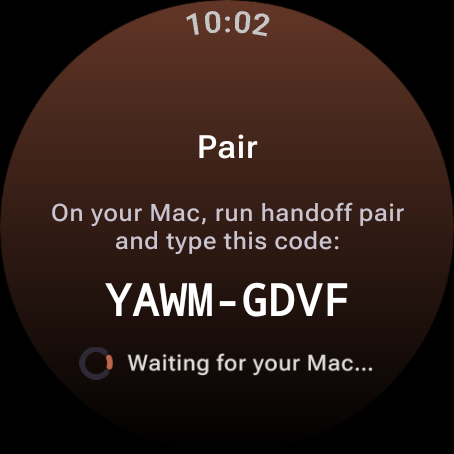
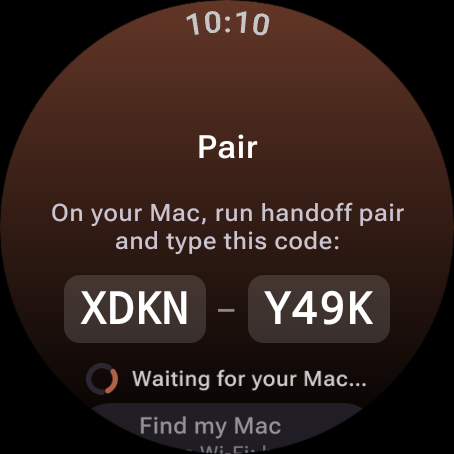
Wear OS: the same cleaner look as the Apple Watch
- Ideas: a chats line at the top (open, working; tap for Projects), a
  microphone on Jot an idea, draft lines with an accent bar, Claude's
  suggestion as a card with a sparkle, and how long ago each note went.
- Pair: the code in two big boxes. Projects: a status dot per chat.
- Play Store screenshots retaken. The script now turns suggestions back
  on for the suggestion shot (the previous run left them off).

Changed region(s): [[0.1233, 0.5859, 0.8634, 1.0], [0.4934, 0.0308, 0.5859, 0.0925]]

diff --git a/wear/app/src/main/java/dev/maxbuda/handoff/MainActivity.kt b/wear/app/src/main/java/dev/maxbuda/handoff/MainActivity.kt
@@ -11,7 +11,16 @@ import androidx.activity.compose.setContent
 import androidx.activity.result.contract.ActivityResultContracts
 import androidx.compose.foundation.background
 import androidx.compose.foundation.clickable
+import androidx.compose.foundation.shape.CircleShape
 import androidx.compose.foundation.shape.RoundedCornerShape
+import androidx.compose.foundation.layout.Arrangement
+import androidx.compose.foundation.layout.IntrinsicSize
+import androidx.compose.foundation.layout.fillMaxHeight
+import androidx.compose.foundation.layout.height
+import androidx.compose.material.icons.filled.AutoAwesome
+import androidx.compose.material.icons.filled.CheckCircle
+import androidx.compose.material.icons.filled.Forum
+import androidx.compose.material.icons.filled.Mic
 import androidx.compose.ui.draw.clip
 import androidx.compose.foundation.layout.Box
 import androidx.compose.foundation.layout.PaddingValues
@@ -275,9 +284,12 @@ fun PairScreen() {
     ListScreen(stringResource(R.string.pair)) {
         item { Caption(stringResource(R.string.pair_instructions)) }
         item {
-            Text("${code.take(4)}-${code.takeLast(4)}", fontFamily = FontFamily.Monospace, fontWeight = FontWeight.Bold,
-                fontSize = 22.sp, maxLines = 1, textAlign = TextAlign.Center, modifier = Modifier.fillMaxWidth().padding(vertical = 6.dp),
-                color = if (failure == null) Color.White else Color.Gray)
+            Row(Modifier.fillMaxWidth().padding(vertical = 6.dp), horizontalArrangement = Arrangement.Center, verticalAlignment = Alignment.CenterVertically) {
+                val dim = if (failure == null) 1f else 0.4f
+                CodeHalf(code.take(4), dim)
+                Text("–", color = Color.Gray, modifier = Modifier.padding(horizontal = 6.dp))
+                CodeHalf(code.takeLast(4), dim)
+            }
         }
         val f = failure
         if (f != null) {
@@ -410,6 +422,11 @@ fun IdeasScreen(nav: NavHostController, jot: Boolean, jotHandled: () -> Unit) {
             }
         } else null,
     ) {
+        // Your chats at a glance (open, and how many are working); tap for Projects.
+        if (Store.chats.isNotEmpty()) item {
+            ChatsLine(Store.chats.size, Store.status.values.count { it.working != null }) { nav.navigate("projects") }
+        }
+
         Store.approvals.forEach { approvalItems(it, nav) }
 
         Store.shots.firstOrNull()?.let { shot ->
@@ -432,7 +449,14 @@ fun IdeasScreen(nav: NavHostController, jot: Boolean, jotHandled: () -> Unit) {
 
         Store.suggestion?.let { s ->
             item { ListHeader { Text(s.chat?.let { stringResource(R.string.suggestion_from, it) } ?: stringResource(R.string.suggestion)) } }
-            item { Caption(s.text, Color.White) }
+            item {
+                Row(Modifier.fillMaxWidth().clip(RoundedCornerShape(16.dp)).background(MaterialTheme.colorScheme.surfaceContainer).padding(10.dp),
+                    verticalAlignment = Alignment.Top) {
+                    Icon(Icons.Default.AutoAwesome, null, tint = accent, modifier = Modifier.size(14.dp).padding(top = 2.dp))
+                    Spacer(Modifier.width(6.dp))
+                    Text(s.text, style = MaterialTheme.typography.bodyMedium)
+                }
+            }
             item { Item(stringResource(R.string.accept_suggestion), Icons.Default.KeyboardReturn, tonal = false, onClick = Store::acceptSuggestion) }
             item { Item(stringResource(R.string.dismiss), Icons.Default.Close, onClick = Store::dismissSuggestion) }
         }
@@ -457,12 +481,17 @@ fun IdeasScreen(nav: NavHostController, jot: Boolean, jotHandled: () -> Unit) {
         }
 
         itemsIndexed(Store.draft) { i, line ->
-            Button(onClick = { Store.removeLine(i) }, modifier = Modifier.fillMaxWidth(), colors = ButtonDefaults.filledTonalButtonColors(),
-                label = { Text(line, style = MaterialTheme.typography.bodySmall) },
-                icon = { Icon(Icons.Default.Close, contentDescription = null, modifier = Modifier.size(16.dp)) })
+            Row(Modifier.fillMaxWidth().height(IntrinsicSize.Min).clip(RoundedCornerShape(12.dp))
+                .background(MaterialTheme.colorScheme.surfaceContainer).clickable { Store.removeLine(i) }.padding(horizontal = 10.dp, vertical = 8.dp),
+                verticalAlignment = Alignment.CenterVertically) {
+                Box(Modifier.width(3.dp).fillMaxHeight().clip(RoundedCornerShape(2.dp)).background(accent))
+                Spacer(Modifier.width(8.dp))
+                Text(line, style = MaterialTheme.typography.bodySmall, modifier = Modifier.weight(1f))
+                Icon(Icons.Default.Close, contentDescription = null, tint = Color.Gray, modifier = Modifier.size(14.dp))
+            }
         }
         item {
-            if (Store.draft.isEmpty()) Item(stringResource(R.string.jot_an_idea), Icons.Default.Edit, tonal = false, onClick = input)
+            if (Store.draft.isEmpty()) Item(stringResource(R.string.jot_an_idea), Icons.Default.Mic, tonal = false, onClick = input)
             else Item(stringResource(R.string.add_a_line), Icons.Default.Add, onClick = addLine)
         }
 
@@ -477,23 +506,53 @@ fun IdeasScreen(nav: NavHostController, jot: Boolean, jotHandled: () -> Unit) {
                 Row(Modifier.fillMaxWidth().padding(horizontal = 12.dp, vertical = 2.dp),
                     verticalAlignment = Alignment.Top) {
                     Column(Modifier.weight(1f)) {
-                        Text(note.text, style = MaterialTheme.typography.bodySmall, maxLines = 2, overflow = TextOverflow.Ellipsis,
-                            color = MaterialTheme.colorScheme.onSurfaceVariant)
-                        note.to?.let { Text(stringResource(R.string.to_chat, it), style = MaterialTheme.typography.bodySmall, color = accent) }
+                        Text(note.text, style = MaterialTheme.typography.bodySmall, maxLines = 2, overflow = TextOverflow.Ellipsis)
+                        Row {
+                            note.to?.let { Text(stringResource(R.string.to_chat, it) + "  ", style = MaterialTheme.typography.bodySmall, color = accent, maxLines = 1) }
+                            Text(android.text.format.DateUtils.getRelativeTimeSpanString(note.ts, System.currentTimeMillis(),
+                                android.text.format.DateUtils.MINUTE_IN_MILLIS, android.text.format.DateUtils.FORMAT_ABBREV_RELATIVE).toString(),
+                                style = MaterialTheme.typography.bodySmall, color = Color.Gray, maxLines = 1)
+                        }
                     }
-                    Icon(if (note.sent) Icons.Default.Check else Icons.Default.Schedule,
+                    Icon(if (note.sent) Icons.Default.CheckCircle else Icons.Default.Schedule,
                         contentDescription = stringResource(if (note.sent) R.string.delivered else R.string.waiting_to_send),
                         tint = if (note.sent) accent else Color.Gray, modifier = Modifier.size(14.dp))
                 }
             }
         }
 
-        if (Store.chats.isNotEmpty()) item { Item(stringResource(R.string.projects), Icons.Default.Folder) { nav.navigate("projects") } }
         item {
             val n = Store.schedules.size
             Item(if (n == 0) stringResource(R.string.recurring) else stringResource(R.string.recurring_count, n), Icons.Default.Repeat) { nav.navigate("recurring") }
         }
         item { Item(stringResource(R.string.settings), Icons.Default.Settings) { nav.navigate("settings") } }
+    }
+}
+
+/** One half of the pairing code, in a box. */
+@Composable
+private fun CodeHalf(text: String, alpha: Float) {
+    Text(text, fontFamily = FontFamily.Monospace, fontWeight = FontWeight.Bold, fontSize = 22.sp, maxLines = 1,
+        color = Color.White.copy(alpha = alpha),
+        modifier = Modifier.clip(RoundedCornerShape(8.dp)).background(Color.White.copy(alpha = 0.14f * alpha)).padding(horizontal = 8.dp, vertical = 4.dp))
+}
+
+/** The top of Ideas: how many chats are open, and how many are working. Icons and numbers, no words. */
+@Composable
+private fun ChatsLine(open: Int, working: Int, onClick: () -> Unit) {
+    val accent = MaterialTheme.colorScheme.primary
+    val desc = stringResource(R.string.projects)
+    Row(Modifier.fillMaxWidth().clip(RoundedCornerShape(50)).clickable(onClickLabel = desc, onClick = onClick).padding(horizontal = 12.dp, vertical = 4.dp),
+        horizontalArrangement = Arrangement.Center, verticalAlignment = Alignment.CenterVertically) {
+        Box(Modifier.size(7.dp).clip(CircleShape).background(if (working > 0) accent else Color(0xFF34C759)))
+        Spacer(Modifier.width(8.dp))
+        Icon(Icons.Default.Forum, null, tint = Color.Gray, modifier = Modifier.size(14.dp))
+        Text(" $open", style = MaterialTheme.typography.bodySmall, color = Color.Gray)
+        if (working > 0) {
+            Spacer(Modifier.width(8.dp))
+            Icon(Icons.Default.Build, null, tint = accent, modifier = Modifier.size(12.dp))
+            Text(" $working", style = MaterialTheme.typography.bodySmall, color = accent)
+        }
     }
 }
 
@@ -676,7 +735,11 @@ fun ProjectsScreen() {
         items(Store.chats) { name ->
             val s = Store.status[name] ?: ChatStatus()
             Column(Modifier.fillMaxWidth().padding(horizontal = 12.dp, vertical = 4.dp)) {
-                Text(name, style = MaterialTheme.typography.titleSmall)
+                Row(verticalAlignment = Alignment.CenterVertically) {
+                    Box(Modifier.size(7.dp).clip(CircleShape).background(if (s.working != null) accent else Color(0xFF34C759)))
+                    Spacer(Modifier.width(6.dp))
+                    Text(name, style = MaterialTheme.typography.titleSmall, maxLines = 1, overflow = TextOverflow.Ellipsis)
+                }
                 if (s.working != null) {
                     Row(verticalAlignment = Alignment.CenterVertically) {
                         Icon(Icons.Default.Build, null, tint = accent, modifier = Modifier.size(12.dp))
